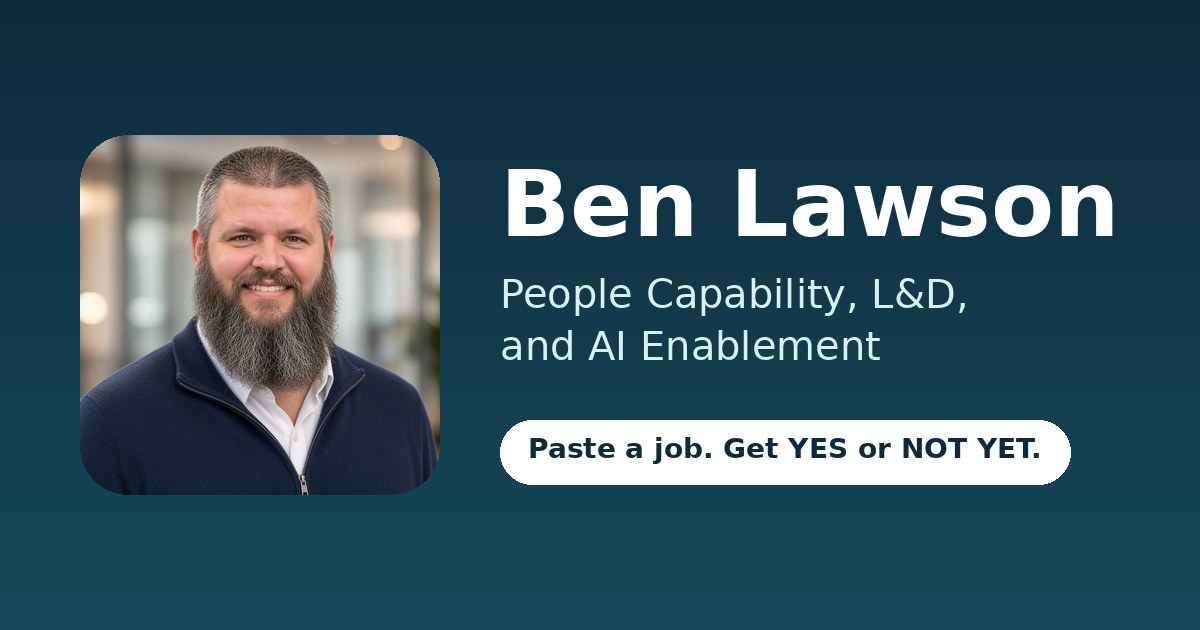
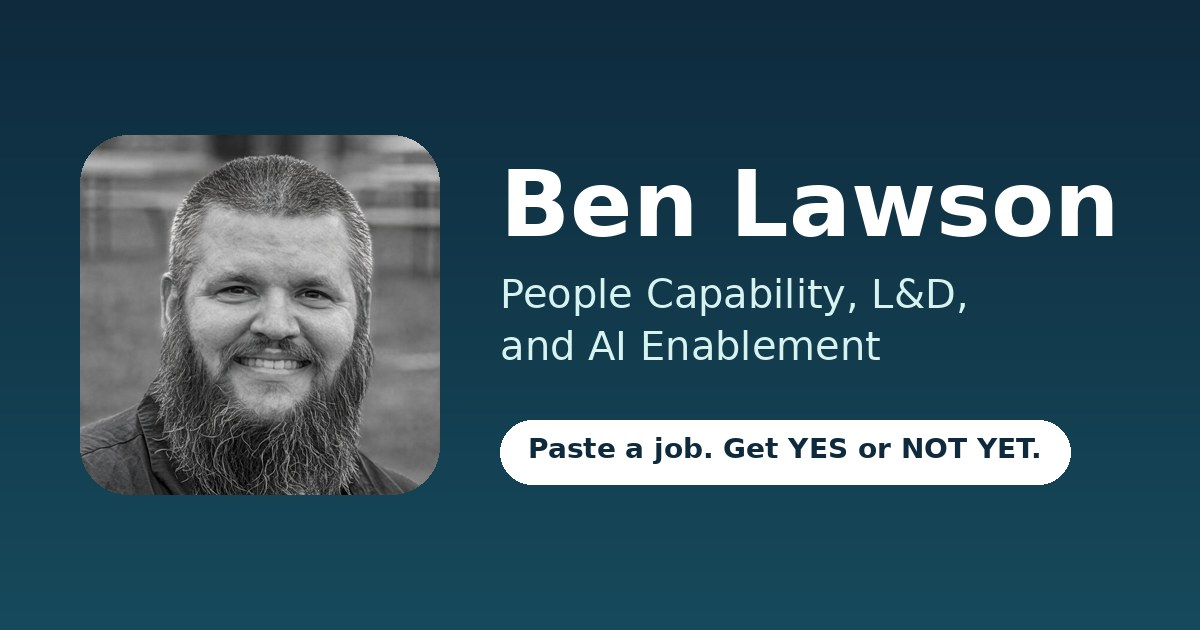
Replace the hero portrait with a new black-and-white headshot
Crop the photo on the face, strip EXIF and GPS, and ship 480 and 960px
WebP plus JPEG fallbacks. Also refresh the OG image, apple-touch-icon,
and favicon from the same source.

Changed region(s): [[0.0617, 0.2111, 0.37, 0.7841]]

diff --git a/styles.css b/styles.css
@@ -48,9 +48,10 @@ h3 { font-size: 1.1rem; }
 .hero { background: linear-gradient(160deg, var(--brand), #164a5c); color: #f4f8fa; padding: 3rem 0 2rem; }
 .hero a { color: #bfeee9; }
 .hero-grid { display: grid; gap: 1.75rem; align-items: center; }
-.portrait { position: relative; width: 168px; aspect-ratio: 300 / 372; border-radius: 28px; overflow: hidden; background: #1d4f63; border: 3px solid rgba(255,255,255,.25); box-shadow: 0 10px 30px rgba(0,0,0,.25); }
-.portrait img { position: absolute; inset: 0; width: 100%; height: 100%; object-fit: cover; object-position: center 20%; display: none; }
-.portrait.has-photo img { display: block; }
+.portrait { position: relative; width: 168px; aspect-ratio: 4 / 5; border-radius: 28px; overflow: hidden; background: #1d4f63; border: 3px solid rgba(255,255,255,.25); box-shadow: 0 10px 30px rgba(0,0,0,.25); }
+.portrait picture { position: absolute; inset: 0; display: none; }
+.portrait.has-photo picture { display: block; }
+.portrait img { position: absolute; inset: 0; width: 100%; height: 100%; object-fit: cover; object-position: center 18%; display: block; }
 .portrait .monogram { position: absolute; inset: 0; display: grid; place-items: center; font-size: 3.4rem; font-weight: 700; letter-spacing: .04em; color: #d6f3ef; }
 .portrait.has-photo .monogram { display: none; }
 .subtitle { font-size: 1.2rem; font-weight: 650; color: #bfeee9; margin: 0 0 .25rem; }

diff --git a/tests/site.test.js b/tests/site.test.js
@@ -35,6 +35,23 @@ test('hero: no subtitle repeating the name, tagline and email under the name, no
   assert.match(hero, /id="request-resume-btn"/);
 });
 
+test('hero portrait has alt text, WebP and JPEG fallbacks, and no EXIF', () => {
+  const hero = html.split('<main>')[0];
+  assert.match(hero, /<picture>/);
+  assert.match(hero, /type="image\/webp"/);
+  assert.match(hero, /srcset="\/assets\/ben-480\.webp 480w, \/assets\/ben-960\.webp 960w"/);
+  assert.match(hero, /src="\/assets\/ben-480\.jpg"/);
+  assert.match(hero, /srcset="\/assets\/ben-480\.jpg 480w, \/assets\/ben-960\.jpg 960w"/);
+  assert.match(hero, /alt="Ben Lawson"/);
+  assert.match(hero, /width="480" height="600"/);
+  const marker = Buffer.from('Exif\x00');
+  for (const f of ['ben-480.webp', 'ben-960.webp', 'ben-480.jpg', 'ben-960.jpg', 'og.jpg']) {
+    const buf = fs.readFileSync(path.join(root, 'assets', f));
+    assert.ok(buf.length > 1000, f + ' should exist');
+    assert.ok(!buf.includes(marker), f + ' should have no EXIF');
+  }
+});
+
 test('contact is email and LinkedIn only: no phone number or street address', () => {
   assert.ok(!/402[-. )]*926[-. ]*1521/.test(html));
   assert.ok(!/\b\d{3}[-. ]\d{3}[-. ]\d{4}\b/.test(html));

diff --git a/index.html b/index.html
@@ -32,7 +32,10 @@
     <div class="wrap hero-grid">
       <div class="portrait" id="portrait">
         <span class="monogram" aria-hidden="true">BL</span>
-        <img id="portrait-img" src="/assets/ben-600.webp" alt="Ben Lawson" width="300" height="372" decoding="async" fetchpriority="high">
+        <picture>
+          <source type="image/webp" srcset="/assets/ben-480.webp 480w, /assets/ben-960.webp 960w" sizes="(min-width: 720px) 240px, 168px">
+          <img id="portrait-img" src="/assets/ben-480.jpg" srcset="/assets/ben-480.jpg 480w, /assets/ben-960.jpg 960w" sizes="(min-width: 720px) 240px, 168px" alt="Ben Lawson" width="480" height="600" decoding="async" fetchpriority="high">
+        </picture>
       </div>
       <div class="hero-text">
         <h1>Ben Lawson</h1>

diff --git a/index.template.html b/index.template.html
@@ -32,7 +32,10 @@
     <div class="wrap hero-grid">
       <div class="portrait" id="portrait">
         <span class="monogram" aria-hidden="true">BL</span>
-        <img id="portrait-img" src="/assets/ben-600.webp" alt="Ben Lawson" width="300" height="372" decoding="async" fetchpriority="high">
+        <picture>
+          <source type="image/webp" srcset="/assets/ben-480.webp 480w, /assets/ben-960.webp 960w" sizes="(min-width: 720px) 240px, 168px">
+          <img id="portrait-img" src="/assets/ben-480.jpg" srcset="/assets/ben-480.jpg 480w, /assets/ben-960.jpg 960w" sizes="(min-width: 720px) 240px, 168px" alt="Ben Lawson" width="480" height="600" decoding="async" fetchpriority="high">
+        </picture>
       </div>
       <div class="hero-text">
         <h1>Ben Lawson</h1>

diff --git a/tools/make-images.py b/tools/make-images.py
@@ -1,53 +1,117 @@
 #!/usr/bin/env python3
 """Make site images. Usage: python3 tools/make-images.py [path/to/headshot.jpg]
 Without a photo: monogram favicon, apple-touch-icon and OG image.
-With a photo: also assets/ben-600.webp (portrait, metadata stripped), assets/ben-300.webp,
-and the photo is used in the favicon/apple-touch-icon and the OG image.
+With a photo: also assets/ben-480 and ben-960 in WebP and JPEG (4:5 portrait,
+metadata stripped), and the photo is used in the favicon/apple-touch-icon and
+the OG image.
 Needs Pillow."""
-import sys, os
+import os
+import sys
 from PIL import Image, ImageDraw, ImageFont, ImageOps
+
 ROOT = os.path.join(os.path.dirname(os.path.abspath(__file__)), '..')
-A = os.path.join(ROOT, 'assets'); os.makedirs(A, exist_ok=True)
-BRAND = (15, 42, 61); TEAL = (11, 110, 110); LIGHT = (214, 243, 239)
+A = os.path.join(ROOT, 'assets')
+os.makedirs(A, exist_ok=True)
+BRAND = (15, 42, 61)
+TEAL = (11, 110, 110)
+LIGHT = (214, 243, 239)
+# Classic 4:5 portrait; 480 and 960 widths are exact.
+PORTRAIT_RATIO = 4 / 5
+PORTRAIT_SIZES = ((480, 600), (960, 1200))
+
+
 def font(size, bold=True):
-    for p in ['/usr/share/fonts/truetype/dejavu/DejaVuSans-Bold.ttf' if bold else '/usr/share/fonts/truetype/dejavu/DejaVuSans.ttf',
-              '/System/Library/Fonts/Helvetica.ttc']:
-        if os.path.exists(p): return ImageFont.truetype(p, size)
+    for p in [
+        '/usr/share/fonts/truetype/dejavu/DejaVuSans-Bold.ttf' if bold else '/usr/share/fonts/truetype/dejavu/DejaVuSans.ttf',
+        '/System/Library/Fonts/Helvetica.ttc',
+    ]:
+        if os.path.exists(p):
+            return ImageFont.truetype(p, size)
     return ImageFont.load_default()
+
+
+def clean_rgb(im):
+    """Copy pixels into a new RGB image so EXIF, GPS, ICC, and comments are dropped."""
+    out = Image.new('RGB', im.size)
+    out.paste(im)
+    return out
+
+
+def crop(im, ratio, cy=0.35):
+    """Center crop to ratio, with cy biasing the window toward the face (0 = top, 1 = bottom)."""
+    w, h = im.size
+    if w / h > ratio:
+        nw = int(h * ratio)
+        x = (w - nw) // 2
+        return im.crop((x, 0, x + nw, h))
+    nh = int(w / ratio)
+    y = int((h - nh) * cy)
+    return im.crop((0, y, w, y + nh))
+
+
+def save_webp(im, path, quality=82):
+    clean_rgb(im).save(path, 'WEBP', quality=quality, method=6)
+
+
+def save_jpeg(im, path, quality=85):
+    clean_rgb(im).save(path, 'JPEG', quality=quality, optimize=True, progressive=True)
+
+
 photo = None
 if len(sys.argv) > 1 and os.path.exists(sys.argv[1]):
-    photo = ImageOps.exif_transpose(Image.open(sys.argv[1])).convert('RGB')  # re-encoding drops EXIF
-def crop(im, ratio, cy=0.35):
-    w, h = im.size
-    if w / h > ratio: nw = int(h * ratio); x = (w - nw) // 2; return im.crop((x, 0, x + nw, h))
-    nh = int(w / ratio); y = int((h - nh) * cy); return im.crop((0, y, w, y + nh))
+    photo = clean_rgb(ImageOps.exif_transpose(Image.open(sys.argv[1])).convert('RGB'))
+
+
 def mono(size):
-    im = Image.new('RGB', (size, size), BRAND); d = ImageDraw.Draw(im)
-    f = font(int(size * .46)); t = 'BL'; b = d.textbbox((0, 0), t, font=f)
-    d.text(((size - (b[2] - b[0])) / 2 - b[0], (size - (b[3] - b[1])) / 2 - b[1]), t, font=f, fill=LIGHT); return im
+    im = Image.new('RGB', (size, size), BRAND)
+    d = ImageDraw.Draw(im)
+    f = font(int(size * .46))
+    t = 'BL'
+    b = d.textbbox((0, 0), t, font=f)
+    d.text(((size - (b[2] - b[0])) / 2 - b[0], (size - (b[3] - b[1])) / 2 - b[1]), t, font=f, fill=LIGHT)
+    return im
+
+
 if photo:
-    p = crop(photo, 300 / 372).resize((600, 744), Image.LANCZOS); p.save(os.path.join(A, 'ben-600.webp'), 'WEBP', quality=82, method=6)
-    p.resize((300, 372), Image.LANCZOS).save(os.path.join(A, 'ben-300.webp'), 'WEBP', quality=82, method=6)
+    # cy=0.35 keeps the face high in the 4:5 frame and a little of the shoulders.
+    portrait = crop(photo, PORTRAIT_RATIO, cy=0.35)
+    for w, h in PORTRAIT_SIZES:
+        resized = portrait.resize((w, h), Image.LANCZOS)
+        save_webp(resized, os.path.join(A, f'ben-{w}.webp'))
+        save_jpeg(resized, os.path.join(A, f'ben-{w}.jpg'), quality=85 if w <= 480 else 82)
+    for stale in ('ben-300.webp', 'ben-600.webp'):
+        p = os.path.join(A, stale)
+        if os.path.exists(p):
+            os.remove(p)
     sq = crop(photo, 1.0, 0.2)
-    icon = lambda s: sq.resize((s, s), Image.LANCZOS)
+    def icon(s):
+        return sq.resize((s, s), Image.LANCZOS)
 else:
     icon = mono
+
 icon(180).save(os.path.join(A, 'apple-touch-icon.png'), optimize=True)
 icon(32).save(os.path.join(A, 'favicon-32.png'), optimize=True)
+
 # OG image 1200x630
-og = Image.new('RGB', (1200, 630), BRAND); d = ImageDraw.Draw(og)
+og = Image.new('RGB', (1200, 630), BRAND)
+d = ImageDraw.Draw(og)
 for i in range(630):  # soft vertical gradient
-    k = i / 630; d.line([(0, i), (1200, i)], fill=(int(15 + 7 * k), int(42 + 32 * k), int(61 + 31 * k)))
+    k = i / 630
+    d.line([(0, i), (1200, i)], fill=(int(15 + 7 * k), int(42 + 32 * k), int(61 + 31 * k)))
 x0 = 80
 if photo:
     pw = crop(photo, 1.0, 0.2).resize((360, 360), Image.LANCZOS)
-    m = Image.new('L', (360, 360), 0); ImageDraw.Draw(m).rounded_rectangle((0, 0, 359, 359), 48, fill=255)
-    og.paste(pw, (80, 135), m); x0 = 500
+    m = Image.new('L', (360, 360), 0)
+    ImageDraw.Draw(m).rounded_rectangle((0, 0, 359, 359), 48, fill=255)
+    og.paste(pw, (80, 135), m)
+    x0 = 500
 d.text((x0, 150), 'Ben Lawson', font=font(92), fill=(255, 255, 255))
 d.text((x0, 270), 'People Capability, L&D,', font=font(40, False), fill=LIGHT)
 d.text((x0, 322), 'and AI Enablement', font=font(40, False), fill=LIGHT)
-pill = 'Paste a job. Get YES or NOT YET.'; pf = font(28); tw = d.textlength(pill, font=pf)
+pill = 'Paste a job. Get YES or NOT YET.'
+pf = font(28)
+tw = d.textlength(pill, font=pf)
 d.rounded_rectangle((x0, 420, x0 + tw + 56, 484), 32, fill=(255, 255, 255))
 d.text((x0 + 28, 432), pill, font=pf, fill=BRAND)
-og.save(os.path.join(A, 'og.jpg'), 'JPEG', quality=88, optimize=True)
+save_jpeg(og, os.path.join(A, 'og.jpg'), quality=88)
 print('images written', 'with photo' if photo else 'monogram only')

diff --git a/README.md b/README.md
@@ -12,7 +12,7 @@ A recruiter types job titles or requirements (commas or new lines) and each one 
 - `data/titles.json` job titles mapped to sets of skills, plus known gaps
 - `data/gaps.json` things Ben has not done, so the matcher can say NOT YET honestly
 - `tests/matcher.test.js` run with `npm test`
-- `tools/make-images.py [headshot.jpg]` builds the favicon, apple-touch-icon, OG image and portrait (metadata stripped)
+- `tools/make-images.py [headshot.jpg]` builds the favicon, apple-touch-icon, OG image, and hero portrait at 480 and 960px (WebP + JPEG, metadata stripped)
 
 ## Rules for the data
 
